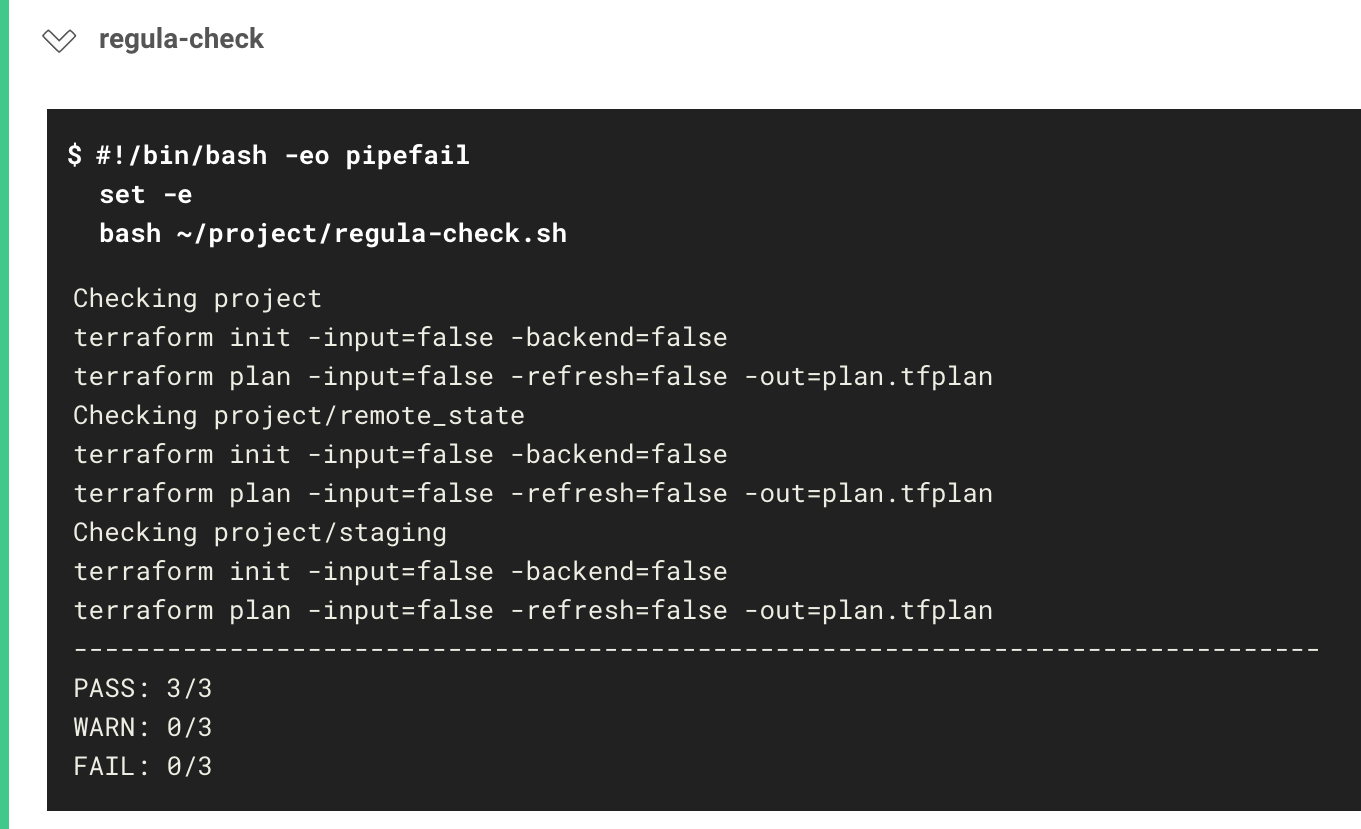
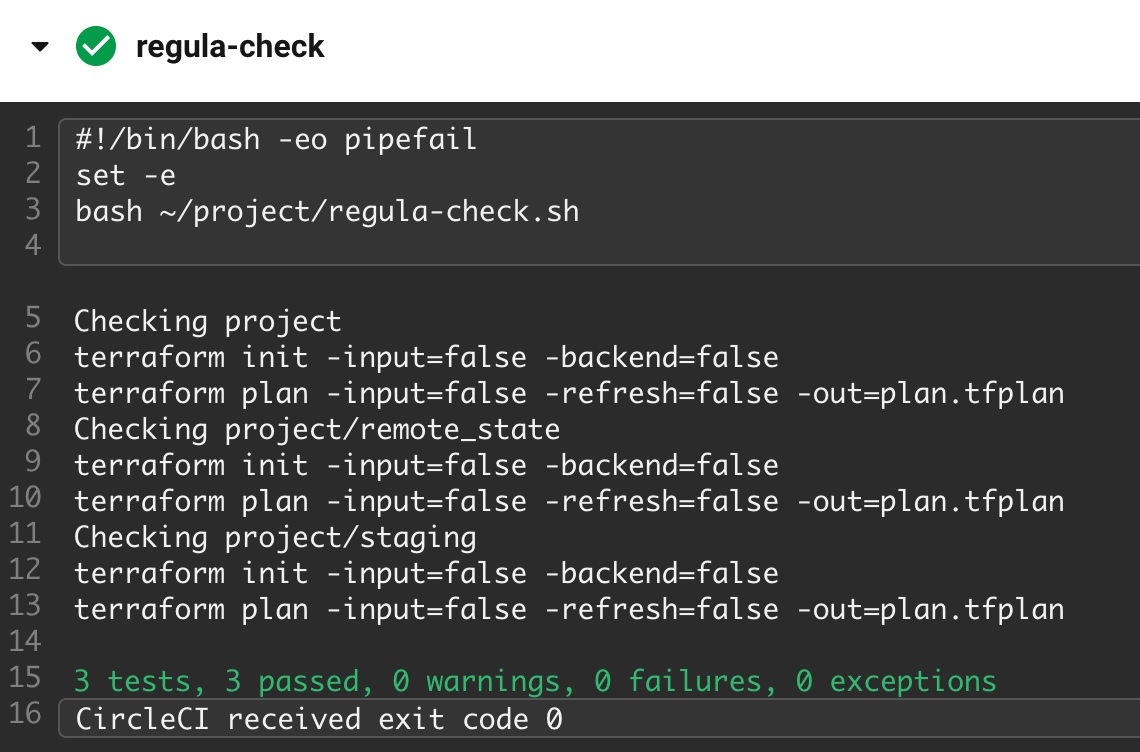
Update screenshots in README

Changed region(s): [[0.0, 0.0, 1.0, 1.0], [0.7061, 0.6423, 0.9518, 0.7035], [0.7061, 0.4894, 0.9211, 0.5505]]

diff --git a/README.md b/README.md
@@ -1,6 +1,6 @@
 # CI/CD with Fugue, Terraform, GitHub, CircleCI: Part 2
 
-![Regula + Fugue = <3](docs/cicd-header.png) 
+![Regula + Fugue = <3](docs/cicd-failed-job.png)
 
 - [Getting Started](#getting-started)
 - [Steps](#steps)
@@ -180,12 +180,10 @@ If you view the job results, you'll see the following error message:
 ![Failed job](docs/cicd-failed-job.png)
 
 ```bash
-FAIL - regula-plan-project.json - regula: rule vpc_flow_log failed for resource aws_vpc.my_fugue_cicd_vpc
-FAIL - regula-plan-staging.json - regula: rule iam_admin_policy failed for resource aws_iam_policy.basically_allow_all
---------------------------------------------------------------------------------
-PASS: 1/3
-WARN: 0/3
-FAIL: 2/3
+FAIL - regula-plan-project.json - main - regula: tf_aws_vpc_flow_log: aws_vpc.my_fugue_cicd_vpc: VPC flow logging should be enabled
+FAIL - regula-plan-staging.json - main - regula: tf_aws_iam_admin_policy: aws_iam_policy.basically_allow_all: IAM policies should not have full "*:*" administrative privileges
+
+3 tests, 1 passed, 0 warnings, 2 failures, 0 exceptions
 
 Exited with code exit status 1
 ```
@@ -220,9 +218,7 @@ When you view the job results, you'll see the following message:
 ![Passing job](docs/cicd-passed-job.png)
 
 ```bash
-PASS: 3/3
-WARN: 0/3
-FAIL: 0/3
+3 tests, 3 passed, 0 warnings, 0 failures, 0 exceptions
 
 CircleCI received exit code 0
 ```
